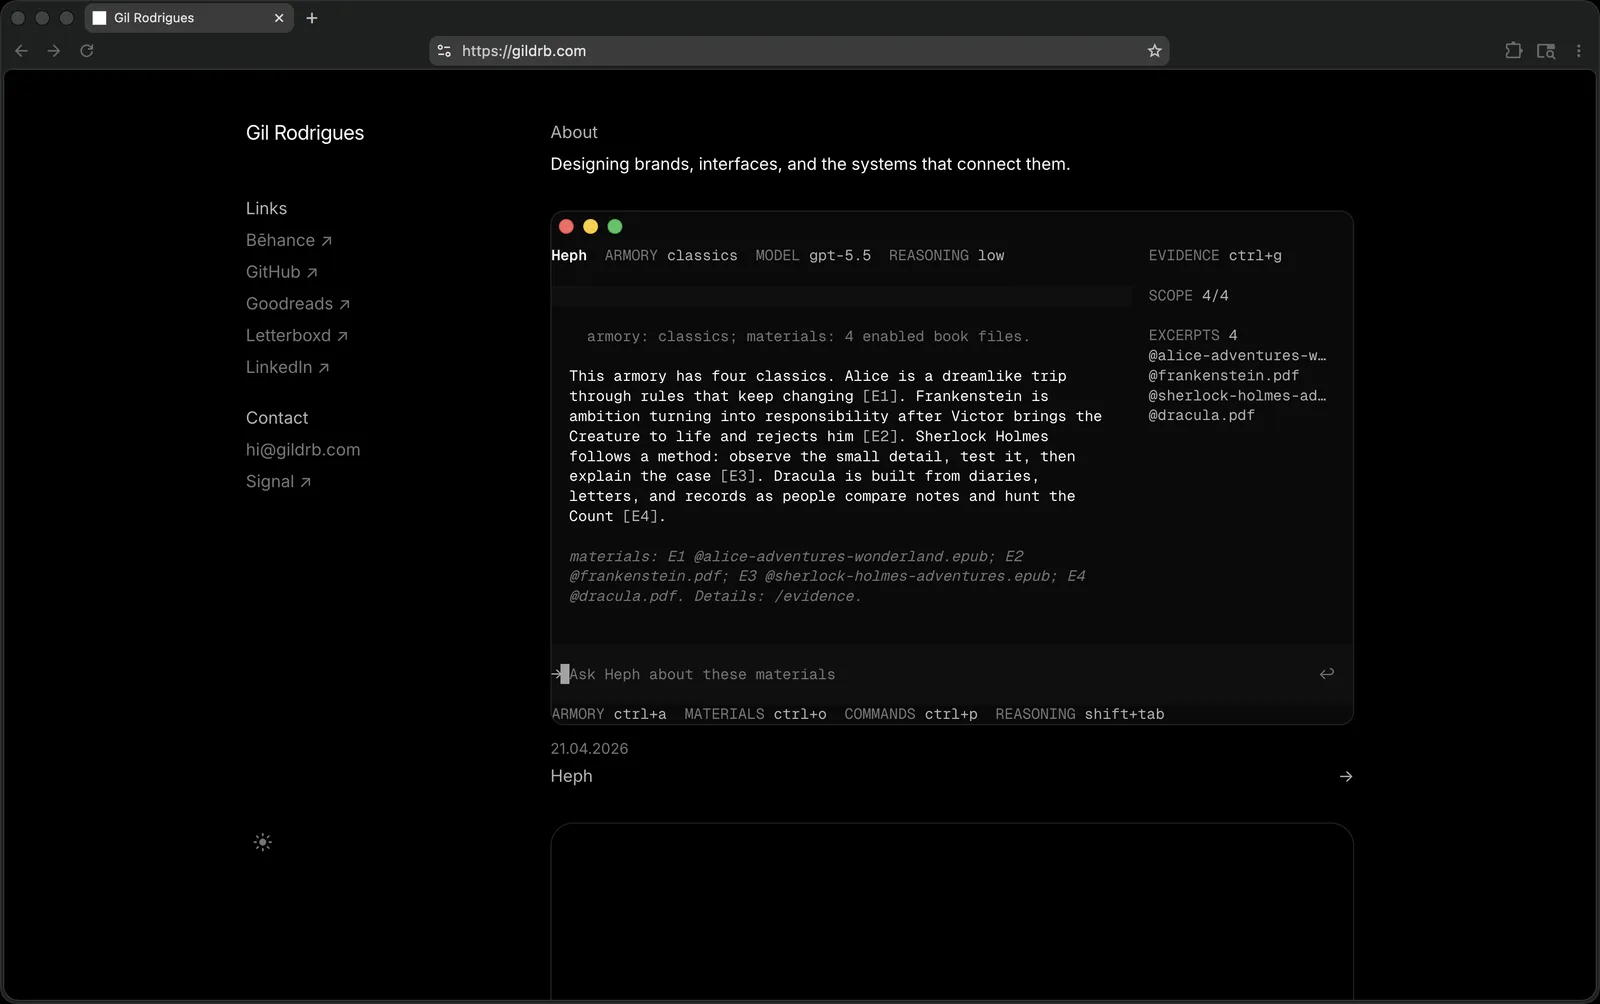
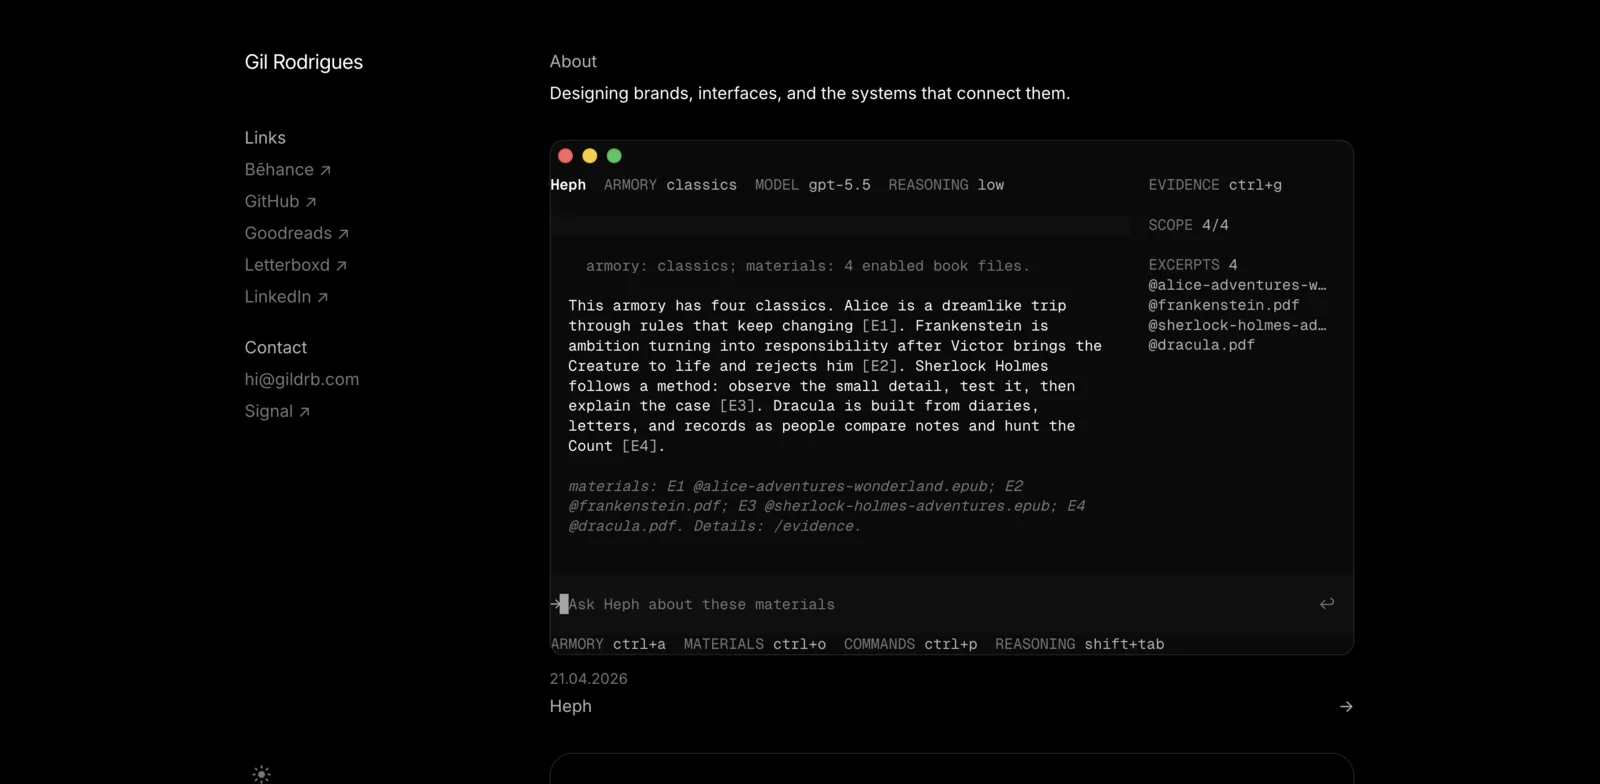
Swap This website card to new homepage screenshot

diff --git a/index.html b/index.html
@@ -3407,8 +3407,8 @@ body {
                                     images/optimized/gil-rodrigues-portfolio-site-1600.webp 1600w
                                 "
                                 sizes="(max-width: 768px) calc(100vw - 24px), (max-width: 1100px) calc(100vw - 336px), 760px"
-                                width="3026"
-                                height="1898"
+                                width="3022"
+                                height="1480"
                                 alt="The portfolio homepage in dark mode with the About line and the interactive Heph terminal demo"
                                 loading="lazy"
                                 decoding="async"

diff --git a/src/sections/portfolio-site.html b/src/sections/portfolio-site.html
@@ -18,8 +18,8 @@
                                     images/optimized/gil-rodrigues-portfolio-site-1600.webp 1600w
                                 "
                                 sizes="(max-width: 768px) calc(100vw - 24px), (max-width: 1100px) calc(100vw - 336px), 760px"
-                                width="3026"
-                                height="1898"
+                                width="3022"
+                                height="1480"
                                 alt="The portfolio homepage in dark mode with the About line and the interactive Heph terminal demo"
                                 loading="lazy"
                                 decoding="async"
